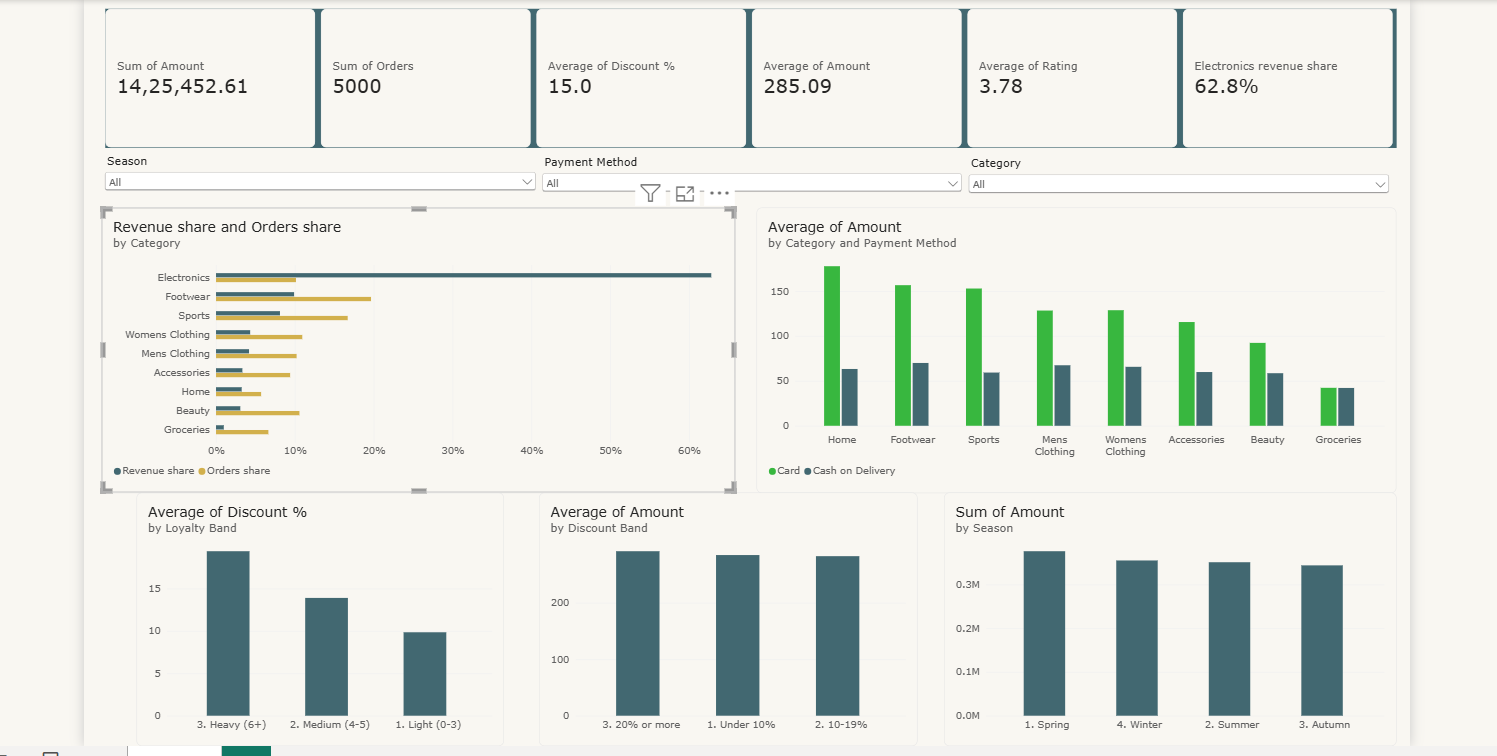
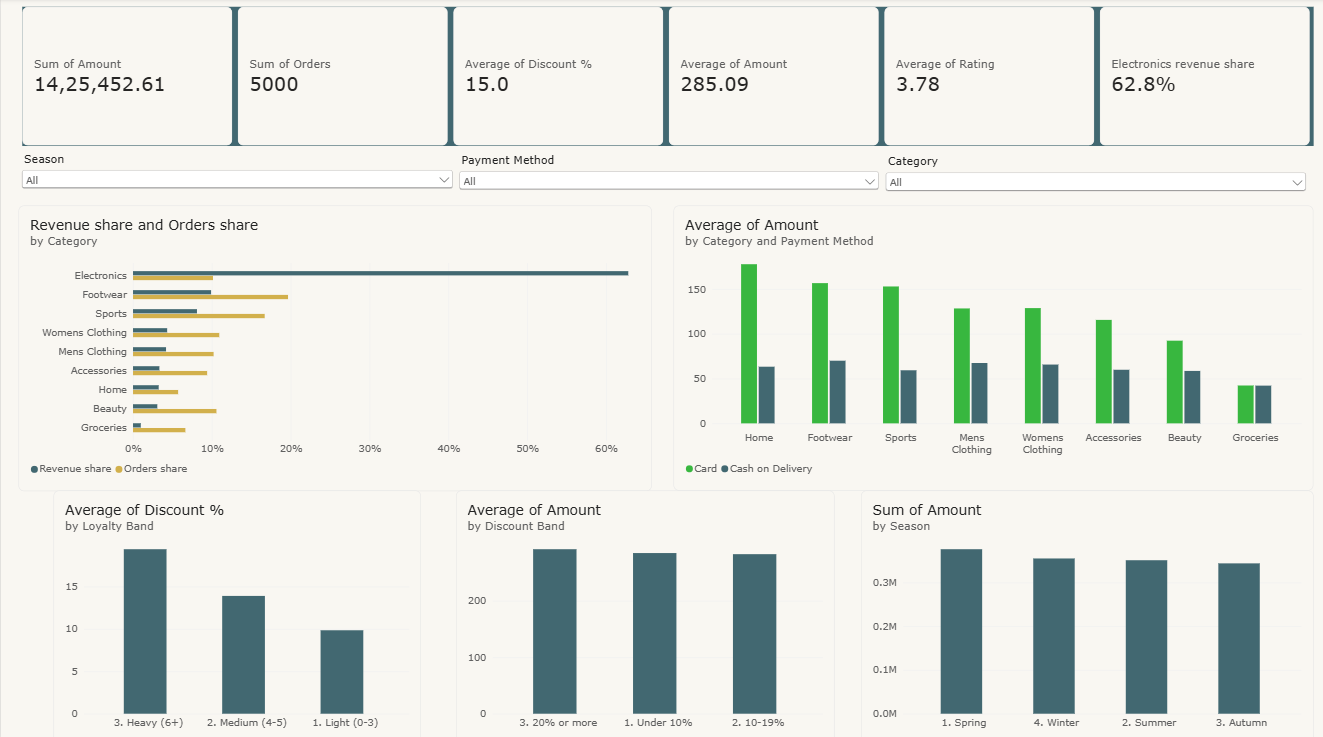
Add files via upload

diff --git a/README.md b/README.md
@@ -28,17 +28,19 @@ It is a practice dataset, not data from a real business. Nothing here describes 
 
 The last two are included to show why they are **not useful** here: 4,991 of 5,000 orders carry a discount, and 4,967 customers have bought before. The analysis therefore compares discount depth and loyalty bands instead.
 
-## Excel dashboard
+## Dashboard
 
-![Excel dashboard](store_sales_dashboard.png)
-
-[`Store_Sales_Dashboard.xlsx`](Store_Sales_Dashboard.xlsx) turns the results into one page: six KPI cards and five charts, each titled with its finding. Pick a **Season** and a **Payment** method in the yellow cells and every card and chart updates; pick a **Spotlight** category to see one category on its own. Every figure is a live formula on the 5,000-row `Data` sheet, and the totals match query 1 of the SQL file (the check is on the `About` sheet).
-
-## Power BI dashboard
+**Power BI** - six KPI cards, three dropdown filters (season, payment method and category) and five charts, each titled with its finding.
 
 ![Power BI dashboard](powerbi_dashboard.png)
 
-One report page built in the Power BI service (the browser version) on the same 5,000 rows: six KPI cards, three dropdown filters (season, payment method and category) and five charts, each titled with its finding. Three short DAX measures (orders share, revenue share and Electronics revenue share) divide a category's total by the total of all categories. The cards match the SQL and Excel results: revenue 1,425,452.61, 5,000 orders, average order value 285.09, average rating 3.78, average discount 15.0% and Electronics 62.8% of revenue. The report file itself is not included, only the picture.
+Built in the Power BI service (the browser version) on the same 5,000 rows. Three short DAX measures (orders share, revenue share and Electronics revenue share) divide a category's total by the total of all categories. The cards match the SQL and Excel results: revenue 1,425,452.61, 5,000 orders, average order value 285.09, average rating 3.78, average discount 15.0% and Electronics 62.8% of revenue. The report file itself is not included, only the picture.
+
+**Excel** - the same results on one page, with six KPI cards, five charts and filters.
+
+![Excel dashboard](store_sales_dashboard.png)
+
+[`Store_Sales_Dashboard.xlsx`](Store_Sales_Dashboard.xlsx) turns the results into one page. Pick a **Season** and a **Payment** method in the yellow cells and every card and chart updates; pick a **Spotlight** category to see one category on its own. Every figure is a live formula on the 5,000-row `Data` sheet, and the totals match query 1 of the SQL file (the check is on the `About` sheet).
 
 ## Findings
 
